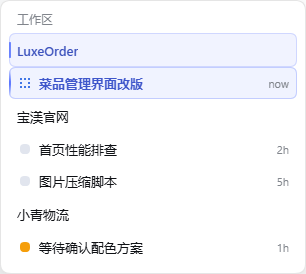
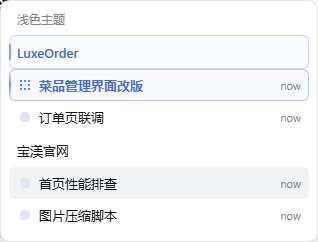
fix: put the selected surface back above the running highlight
Two mistakes in the first colour pass.

The running accent was --dsw-alias-state-business-primary, a darker blue
chosen for its semantic name rather than for what it is. The status dot
paints ongoing with --dsw-static-deepseek-450, so the row highlight and
the dot were two blues that almost matched. The accent is now that same
token, which also means a theme retuning the dot retunes the highlight.

The worse one was the ordering. The running row painted a saturated blue
fill at 14% over a surface the official selected style sets at ~6%, so
the row being worked on looked more selected than the row actually
selected. The running treatment is now edge-weighted - leading bar, thin
ring, fill under 6% - and the fill is dropped entirely when a row is both
selected and running, leaving the official surface at full strength.

The fallback no longer falls through to --dsw-alias-brand-primary, which
resolves to near-black in the default theme and would have painted the
highlight as a black block.

Tests assert each of those: the running token is the dot's, the selected
rule keeps the official surface, and the fill stays under 6%. Verified in
a live Web GUI across light and dark, where the same stylesheet resolves
the tint, the ring, and the title to the correct value in both.

diff --git a/lib/client.js b/lib/client.js
@@ -91,23 +91,49 @@ window.__ModuleLoader__.load({
     /**
      * The plugin's stylesheet.
      *
-     * Palette discipline: every colour comes from a `--dsw-alias-*` token the
-     * active theme defines, with a `color-mix` against the theme's own surface
-     * for translucency. That is what makes one stylesheet work across the
-     * built-in light/dark themes and the community theme packs alike: the token
-     * names are the stable contract, the values are the theme's business.
+     * Colour roles, and why each token is the one the Harness itself uses for
+     * that meaning:
      *
-     * `--bw-accent` is the one role the plugin picks: `state-business-primary`
-     * is the blue-family "in progress" accent the Harness itself uses for
-     * active-work affordances. `state-success-primary` supplies the settle
-     * colour. Both are semantic state tokens rather than brand tokens, so they
-     * stay legible when the brand hue is orange, purple, or green.
+     * - `--bw-running` is `--dsw-static-deepseek-450`, the exact token the
+     *   status dot's `ongoing` matrix is painted with. Using the dot's own
+     *   colour is what keeps the row highlight and the dot reading as one
+     *   signal instead of two blues that almost match.
+     * - `--bw-accent` is that same running colour, because the only thing this
+     *   plugin ever accents is "work in progress".
+     * - `--bw-settle` is `--dsw-alias-state-success-primary`, the token the
+     *   dot uses for `done`.
+     *
+     * The fallback chain deliberately stops at a literal rather than falling
+     * through to `--dsw-alias-brand-primary`: in the default theme that token
+     * resolves to near-black, so a missing running token would paint the
+     * highlight as a black block.
+     *
+     * Hierarchy, which is the part the first version got wrong: the selected
+     * row is the user's current position and must outrank every status hint.
+     * The official selected surface is a 6%-alpha neutral
+     * (`--dsw-alias-interactive-bg-hover`). A running row previously painted
+     * over it with a saturated blue at 14%, so the row being worked on looked
+     * more "selected" than the row actually selected. The running treatment is
+     * therefore edge-weighted — a leading bar and a thin ring, with a much
+     * fainter fill — so it reads clearly on an unselected row and defers to the
+     * official selected surface on a selected one.
      */
     const CSS = `
 :root {
   --bw-intensity: 0.6;
-  --bw-accent: var(--dsw-alias-state-business-primary, var(--dsw-alias-brand-primary, #4d6bfe));
-  --bw-settle: var(--dsw-alias-state-success-primary, #16a34a);
+  --bw-running: var(--dsw-static-deepseek-450, #5686fe);
+  --bw-accent: var(--bw-running);
+  --bw-settle: var(--dsw-alias-state-success-primary, #22c55e);
+
+  /*
+   * The edge marks carry the signal and the fill only backs them up. The fill
+   * is held at 7% of intensity — below the ~6% the official selected surface
+   * uses — so that a running row never reads as more selected than the row the
+   * user actually selected. The ring and bar are what make it legible.
+   */
+  --bw-bar-alpha: calc(0.55 + var(--bw-intensity) * 0.45);
+  --bw-ring-alpha: calc(0.22 + var(--bw-intensity) * 0.34);
+  --bw-fill-alpha: calc(var(--bw-intensity) * 0.07);
 }
 
 /* ---------------------------------------------------------------- *
@@ -129,17 +155,22 @@ window.__ModuleLoader__.load({
   order: -1;
 }
 
-/* A hairline accent on the busy group, so the lifted block reads as deliberate. */
+/*
+ * The busy workspace header keeps the same edge-weighted treatment as the row:
+ * an accent bar on the leading edge, a faint fill, and a thin ring. The header
+ * of a workspace that merely *contains* a running session is a weaker signal
+ * than the running row itself, so it deliberately sits one step below it.
+ */
 [class*="_groupSection"][data-busy-workspace="true"] > [class*="_projectRow"] {
   position: relative;
   border-radius: 8px;
   background: color-mix(
     in srgb,
-    var(--bw-accent) calc(var(--bw-intensity) * 13%),
+    var(--bw-accent) calc(var(--bw-fill-alpha) * 72%),
     transparent
   );
   box-shadow: inset 0 0 0 1px
-    color-mix(in srgb, var(--bw-accent) calc(var(--bw-intensity) * 34%), transparent);
+    color-mix(in srgb, var(--bw-accent) calc(var(--bw-ring-alpha) * 72%), transparent);
   transition: background 160ms var(--ds-ease-in-out, ease),
               box-shadow 160ms var(--ds-ease-in-out, ease);
 }
@@ -155,7 +186,7 @@ window.__ModuleLoader__.load({
   height: 16px;
   border-radius: 1px;
   background: var(--bw-accent);
-  opacity: calc(0.45 + var(--bw-intensity) * 0.55);
+  opacity: calc(var(--bw-bar-alpha) * 0.85);
 }
 
 /* The workspace label picks up the accent so the header reads as active. */
@@ -177,16 +208,20 @@ window.__ModuleLoader__.load({
  * would change the row's box size and shift every row below it by two pixels
  * the moment a session starts; a ring is painted outside the box model, so the
  * list never moves.
+ *
+ * The fill is faint and the ring is thin because the leading bar carries the
+ * signal. A saturated fill would out-shout the official selected surface on a
+ * row that happens to be both selected and running.
  */
 [class*="_sessionRow"][data-busy-session="true"] {
   position: relative;
   background: color-mix(
     in srgb,
-    var(--bw-accent) calc(var(--bw-intensity) * 14%),
+    var(--bw-running) calc(var(--bw-fill-alpha) * 100%),
     transparent
   );
   box-shadow: inset 0 0 0 1px
-    color-mix(in srgb, var(--bw-accent) calc(var(--bw-intensity) * 46%), transparent);
+    color-mix(in srgb, var(--bw-running) calc(var(--bw-ring-alpha) * 100%), transparent);
   transition: background 180ms var(--ds-ease-in-out, ease),
               box-shadow 180ms var(--ds-ease-in-out, ease);
 }
@@ -195,25 +230,41 @@ window.__ModuleLoader__.load({
 [class*="_sessionRow"][data-busy-session="true"]:hover {
   background: color-mix(
     in srgb,
-    var(--bw-accent) calc(var(--bw-intensity) * 21%),
+    var(--bw-running) calc(var(--bw-fill-alpha) * 165%),
     transparent
   );
 }
 
-/* The title carries the accent; this is the "which one is live" signal at a glance. */
+/*
+ * Selected wins. The official selected surface is a translucent neutral; the
+ * running fill is layered under it rather than over it, so a row that is both
+ * selected and running keeps the selected surface at full strength and carries
+ * the running signal on its bar and ring alone.
+ */
+[class*="_sessionRow"][data-busy-session="true"][class*="_selected"] {
+  background: var(--dsw-alias-interactive-bg-hover);
+  box-shadow: inset 0 0 0 1px
+    color-mix(in srgb, var(--bw-running) calc(var(--bw-ring-alpha) * 130%), transparent);
+}
+
+[class*="_sessionRow"][data-busy-session="true"][class*="_selected"]:hover {
+  background: var(--dsw-alias-interactive-bg-active, var(--dsw-alias-interactive-bg-hover));
+}
+
+/* The title carries the running colour; this is the "which one is live" signal. */
 [class*="_sessionRow"][data-busy-session="true"] [class*="_title"] {
   color: color-mix(
     in srgb,
-    var(--bw-accent) 78%,
+    var(--bw-running) 78%,
     var(--dsw-alias-label-primary, currentColor)
   );
   font-weight: 550;
 }
 
 /*
- * A slow sheen travels the leading edge of a running row. It is the only
- * motion in the plugin and it is deliberately low contrast: the row must read
- * as active from across the room, not strobe while the user is typing.
+ * A slow pulse on the leading bar. It is the only motion in the plugin and it
+ * is deliberately low contrast: the row has to read as active without
+ * competing with the text the user is reading.
  */
 [class*="_sessionRow"][data-busy-session="true"]::after {
   content: "";
@@ -229,14 +280,14 @@ window.__ModuleLoader__.load({
     var(--bw-accent) 55%,
     transparent
   );
-  opacity: calc(0.5 + var(--bw-intensity) * 0.5);
+  opacity: var(--bw-bar-alpha);
   animation: bw-breathe 2.4s var(--ds-ease-in-out, ease-in-out) infinite;
   pointer-events: none;
 }
 
 @keyframes bw-breathe {
-  0%, 100% { opacity: calc(0.28 + var(--bw-intensity) * 0.28); }
-  50%      { opacity: calc(0.70 + var(--bw-intensity) * 0.30); }
+  0%, 100% { opacity: calc(var(--bw-bar-alpha) * 0.55); }
+  50%      { opacity: var(--bw-bar-alpha); }
 }
 
 /* ---------------------------------------------------------------- *
@@ -256,7 +307,7 @@ window.__ModuleLoader__.load({
   0% {
     background: color-mix(
       in srgb,
-      var(--bw-settle) calc(var(--bw-intensity) * 34%),
+      var(--bw-settle) calc(var(--bw-fill-alpha) * 380%),
       transparent
     );
     box-shadow: inset 0 0 0 1px
@@ -282,7 +333,7 @@ window.__ModuleLoader__.load({
 @media (prefers-reduced-motion: reduce) {
   [class*="_sessionRow"][data-busy-session="true"]::after {
     animation: none;
-    opacity: calc(0.5 + var(--bw-intensity) * 0.5);
+    opacity: var(--bw-bar-alpha);
   }
   [class*="_sessionRow"][data-busy-settled="true"],
   [class*="_sessionRow"][data-busy-settled="true"] [class*="_title"] {

diff --git a/README.md b/README.md
@@ -49,25 +49,29 @@ When a session stops running, its row plays one short green settle pulse and the
 
 ## Theme-adaptive by design
 
-Every colour is read from the active theme's own `--dsw-alias-*` tokens. Nothing is hardcoded, which means one stylesheet works across the built-in light and dark themes and across community theme packs (Catppuccin, Nord, Dracula, Tokyo Night, Gruvbox, and any other theme that defines the standard token set).
+Every colour is read from the active theme's own tokens. Nothing is hardcoded, which means one stylesheet works across the built-in light and dark themes and across community theme packs (Catppuccin, Nord, Dracula, Tokyo Night, Gruvbox, and any other theme that defines the standard token set).
 
 | Role | Token |
 | --- | --- |
-| Running accent | `--dsw-alias-state-business-primary`, falling back to `--dsw-alias-brand-primary` |
+| Running accent | `--dsw-static-deepseek-450` |
 | Settle colour | `--dsw-alias-state-success-primary` |
 | Row title | `--dsw-alias-label-primary` |
-| Hover surface | `--dsw-alias-interactive-bg-hover` |
+| Selected surface | `--dsw-alias-interactive-bg-hover` |
 
-The plugin deliberately picks the **semantic state tokens** rather than brand tokens. A brand token turns orange when your theme's brand is orange, which would read as a warning rather than as activity. The state tokens keep their meaning across every theme.
+The running accent is the exact token the status dot paints its `ongoing` state with, so the row highlight and the dot read as one signal rather than as two blues that almost match. Sharing the dot's token is also what keeps the plugin inside the theme's own vocabulary: a theme that retunes the dot retunes the highlight with it.
 
-Transparency is composed with `color-mix()` against the theme's own surface, so the tint always sits correctly on light and dark backgrounds alike.
+Transparency is composed with `color-mix()` against the theme's own surface, so the tint sits correctly on light and dark backgrounds alike. In the default themes the token resolves to `#5686fe` on light and a lighter blue on dark, without the plugin knowing either value.
+
+### Hierarchy
+
+The selected row is the user's current position and outranks every status hint. The official selected surface is a roughly 6%-alpha neutral, so the running treatment is deliberately edge-weighted — a leading bar, a thin ring, and a fill held below 6% — and the fill is dropped entirely on a row that is both selected and running, leaving that row's official surface at full strength. Without that ordering a saturated running fill makes the row being worked on look more selected than the row actually selected.
 
 ## Install
 
 ```sh
 # From your dsh profile directory
 cd ~/.dsh/profiles/web
-pnpm add github:yangx/dsh-plugin-busy-workspace
+pnpm add github:baifagg/dsh-plugin-busy-workspace
 ```
 
 Then register the bundle in that profile's `package.json`:
